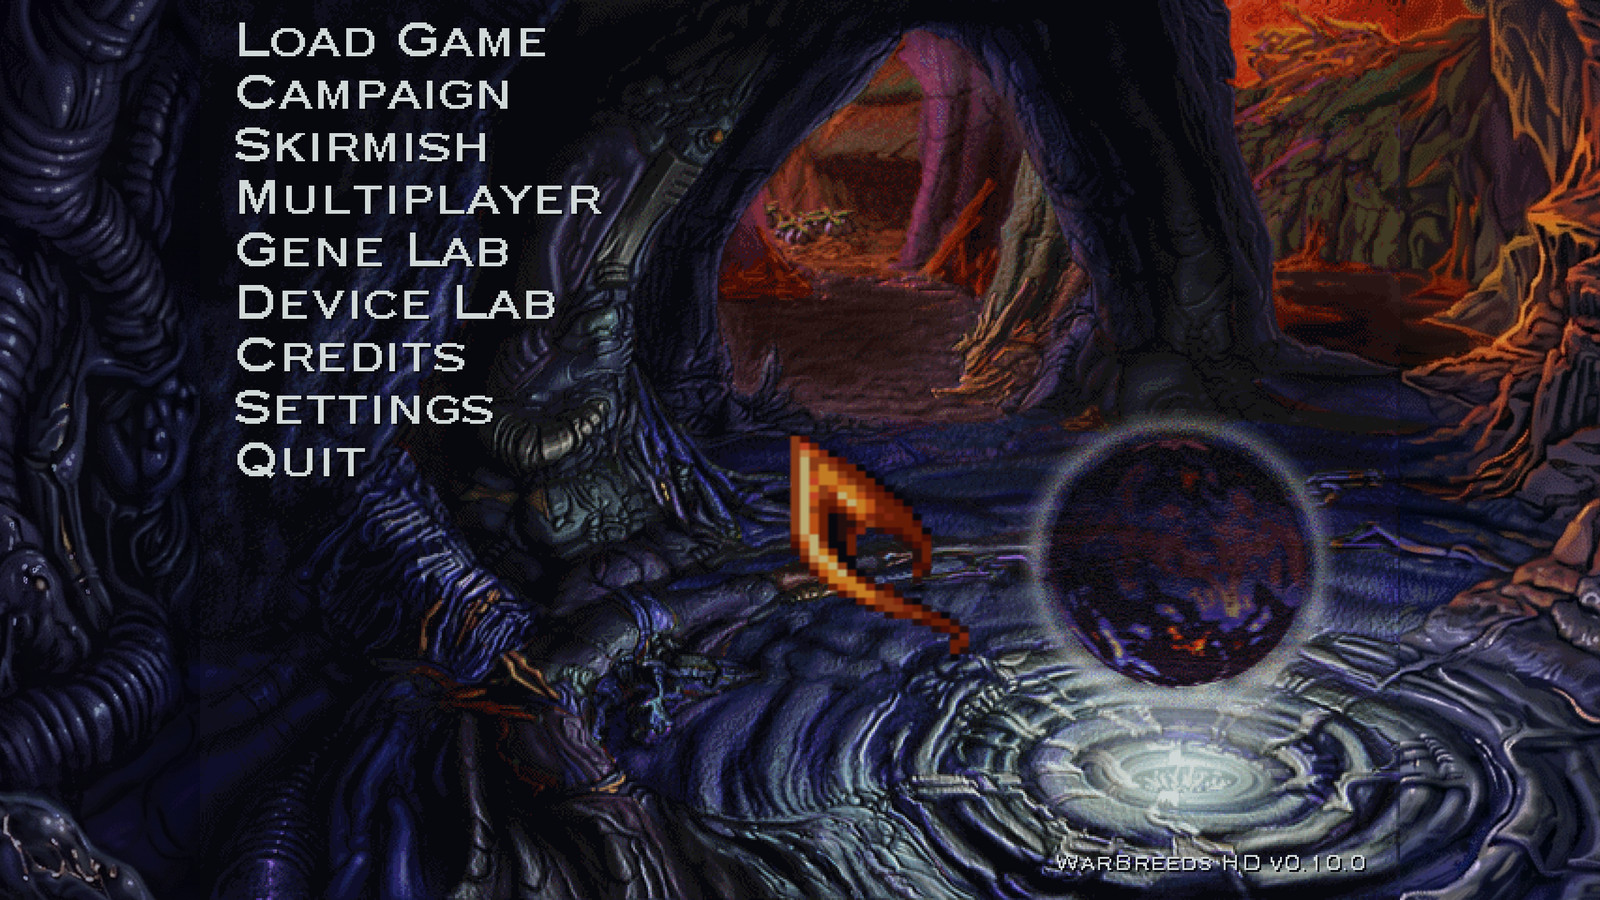
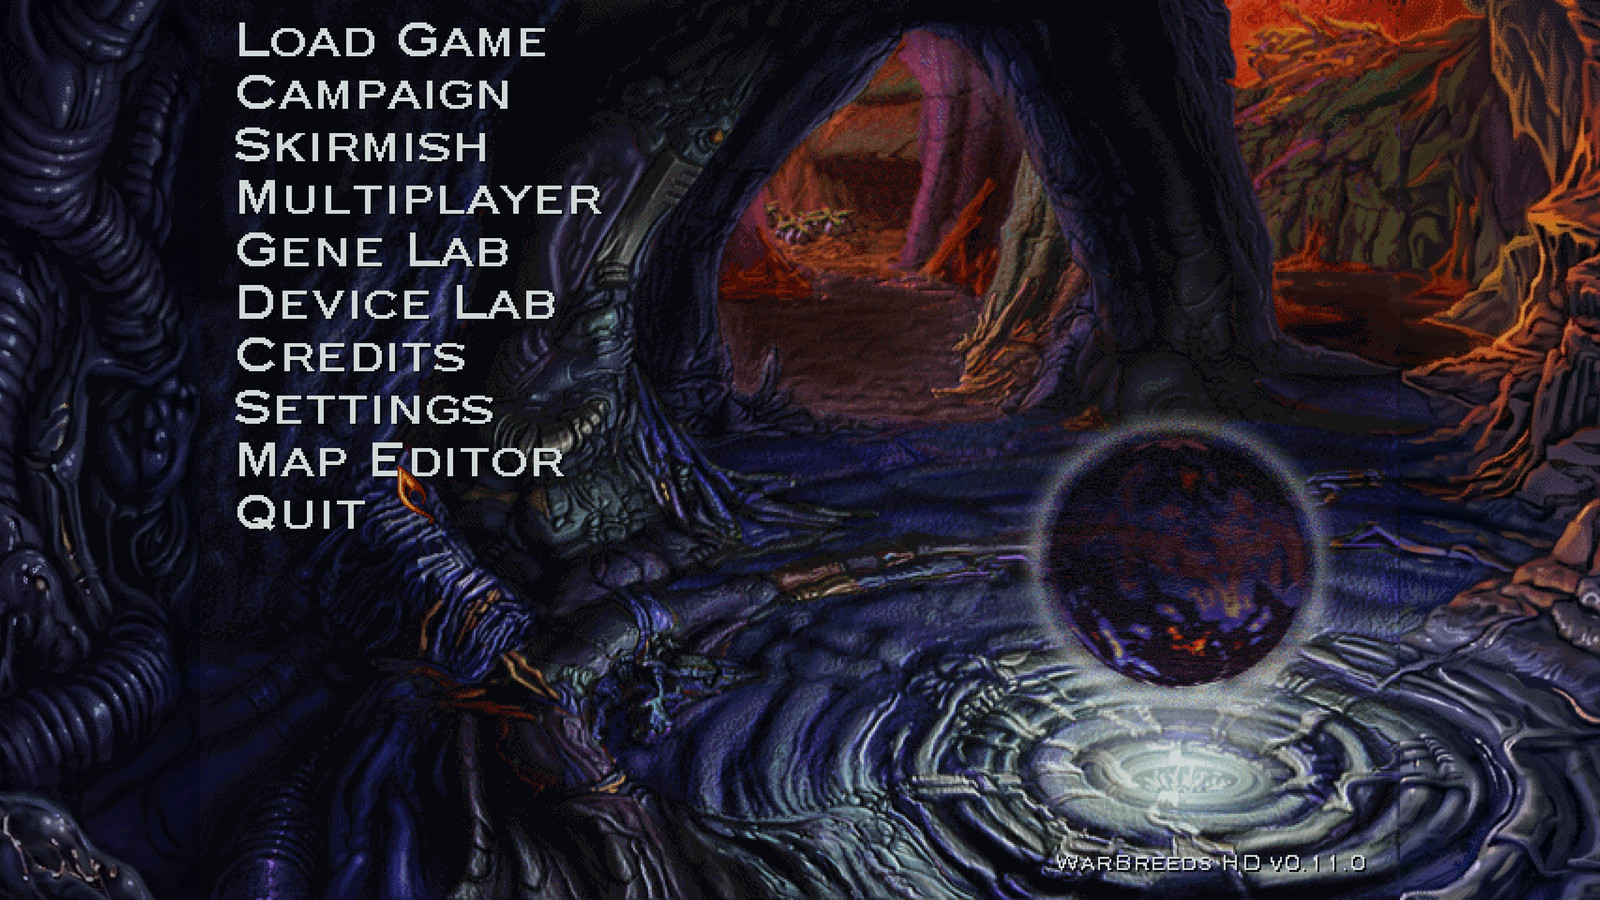
README: the map editor section and an updated main menu shot
The main menu screenshot now shows the Map Editor item. A new section
explains where the editor comes from (the official 1998 standalone
editor is mostly the game engine, which is already in WARBREED.EXE),
with shots of the map list, New Map, the editor and a smart-painting
before/after, plus what's still to come.

Changed region(s): [[0.4688, 0.4667, 0.625, 0.7467], [0.125, 0.4667, 0.375, 0.5911], [0.8125, 0.9333, 0.8438, 0.9644]]

diff --git a/README.md b/README.md
@@ -8,7 +8,7 @@ An unofficial patch that makes **WarBreeds** (Red Orb Entertainment, 1998) run w
 - working cutscenes;
 - a Settings page;
 - modern controls;
-- a map editor.
+- the official map editor, built into the game.
 
 It needs your own copy of the game, and has been tested with the GOG.com release.
 
@@ -22,8 +22,8 @@ The patch changes none of the game's files. It is a DLL that sits next to the ga
 
 | Original (GOG release) | WarBreeds HD |
 |---|---|
-| ![Original main menu](docs/screenshots/menu-before.jpg) | ![Widescreen main menu with Settings](docs/screenshots/menu-after.jpg) |
-| The 640×480 menu with black bars | Widescreen art, a Settings item, the version label |
+| ![Original main menu](docs/screenshots/menu-before.jpg) | ![Widescreen main menu with Settings and Map Editor](docs/screenshots/menu-after.jpg) |
+| The 640×480 menu with black bars | Widescreen art, Settings and Map Editor items, the version label |
 | ![Original 640x480 mission](docs/screenshots/game-before.jpg) | ![The same mission at 2560x1440](docs/screenshots/game-after.jpg) |
 | Missions at 640×480 | Missions at your desktop resolution |
 
@@ -37,7 +37,36 @@ The patch changes none of the game's files. It is a DLL that sits next to the ga
 
 ![The opening cutscene, playing again](docs/screenshots/movie.jpg)
 
-*The GIF and the zoomed shots are from a real skirmish (recorded in a 1920×1080 window). The before/after gameplay pair comes from the automated test harness at 2560×1440, with fog of war switched off (a debug option) so the terrain shows.*
+*The GIF and the zoomed shots are from a real skirmish (recorded in a 1920×1080 window). The before/after gameplay pair and the map editor shots come from the automated test harness at 2560×1440; the gameplay pair has fog of war switched off (a debug option) so the terrain shows.*
+
+## The map editor, inside the game
+
+In 1998 Red Orb released the **WarBreeds Map Editor**, the tool its designers used to build every mission and skirmish map. It came as a separate, unsupported download (beta 1.0, March 1998): its own program, run outside the game, for an 800×600, 256-colour Windows 95 desktop.
+
+Taking it apart showed that the editor is mostly the game itself. About 85% of its code is the WarBreeds engine, wrapped in a Windows editing shell, and that engine is already inside `WARBREED.EXE`. WarBreeds HD uses that to bring the editor into the game: **Map Editor** sits on the main menu next to Settings, and maps are made in the same engine, view and resolution that plays them.
+
+| Pick a map, or start a new one | New Map: size, base terrain, players |
+|---|---|
+| ![The Map Editor's map list](docs/screenshots/editor-maps.jpg) | ![The New Map page](docs/screenshots/editor-new-map.jpg) |
+
+![Editing 4 Corners: the tools panel at the bottom left](docs/screenshots/editor.jpg)
+
+**Smart painting, as the designers had it.** The original editor's Smart Palette picks the right border tile for every cell from the terrain at its four corners, so a stroke of Sand on Crystal comes out with the same ragged, hand-drawn edges as the shipped maps. WarBreeds HD rebuilds that painter from the original editor, using the transition tables in your own game's data:
+- checked against all 54 shipped maps, 99.99% of their tiles are exactly what the painter picks for their corners, and test painting on them leaves no seams;
+- the original's rules are kept: a terrain only goes next to terrain it has border art for (Lava with Tar, Cropland with Crushed Crystal, Hardened Tar or Roots). Where the old editor only said "You cannot paint that there", a refused stroke now says what is in the way.
+
+| Before | After three strokes: Crushed Crystal, Crystal, Sand |
+|---|---|
+| ![4 Corners before painting](docs/screenshots/editor-paint-before.jpg) | ![The same area after smart painting](docs/screenshots/editor-paint-after.jpg) |
+
+**Working on a map**
+- Any map opens in the normal game view, frozen and without fog. The camera, smooth zoom and minimap work as in a mission, and the tools panel keeps its size at any zoom.
+- Brushes of 1, 2, 3 or 5 cells; Shift+drag fills a rectangle; right-click picks up the terrain under the cursor; Ctrl+Z and Ctrl+Y undo and redo whole strokes.
+- **New Map**: 32 to 96 cells per side, a base terrain, 2 to 8 players, each starting with a Shaman.
+- **Save As** runs the game's own map processing (the pathfinding guide graph the original editor built on save), then writes the map to `DATA\MAPS`, where the skirmish setup lists it. The built-in maps are never overwritten: edit one and it's saved under a new name.
+- **Test Map** saves and starts a skirmish on the map. It asks first, so click it twice.
+
+**Still to come** from the original editor: start points, placing creatures and devices, crops, obstacles, and the event (trigger) editor. The trigger editor's screen is in fact already compiled into the retail game, with no way to open it, which gives the later stages a head start.
 
 ## What it does
 
@@ -57,12 +86,9 @@ The patch changes none of the game's files. It is a DLL that sits next to the ga
 - A native Settings item on the main menu, with Video, Controls and Interface tabs.
 - Changes are saved and applied immediately.
 
-**Map editor**
-- A Map Editor item on the main menu: edit any skirmish map's terrain, or start a new map (32–96 cells per side, 2–8 players).
-- The map opens in the normal game view with everything frozen and no fog, so the camera, zoom and minimap work as in a mission.
-- Pick a terrain, a brush size (1, 2, 3 or 5), then drag to paint; Shift+drag fills a rectangle; right-click picks the terrain under the cursor. Undo and redo with Ctrl+Z and Ctrl+Y.
-- Smart painting, as in the original editor: terrain blends into its neighbours with the game's own transition tiles, and only goes next to terrain it has transitions for (Lava next to Tar, for example). A refused stroke says what is in the way.
-- Save As writes the map to `DATA\MAPS` after the game's own map processing (pathfinding), so it appears in the skirmish map list. Built-in maps are never overwritten. Test Map (click twice: it asks first) saves and starts a skirmish on it.
+**Map editor** (more in [The map editor, inside the game](#the-map-editor-inside-the-game))
+- The official 1998 editor's terrain tools, on the main menu: edit any map's terrain or make a new one, with the original's smart painting.
+- Save As processes the map for pathfinding and saves it where the skirmish setup finds it; Test Map (asks first) plays it.
 
 **Controls** (the full list is in [docs/controls.html](docs/controls.html))
 - Arrow keys scroll smoothly. Optional WASD.
